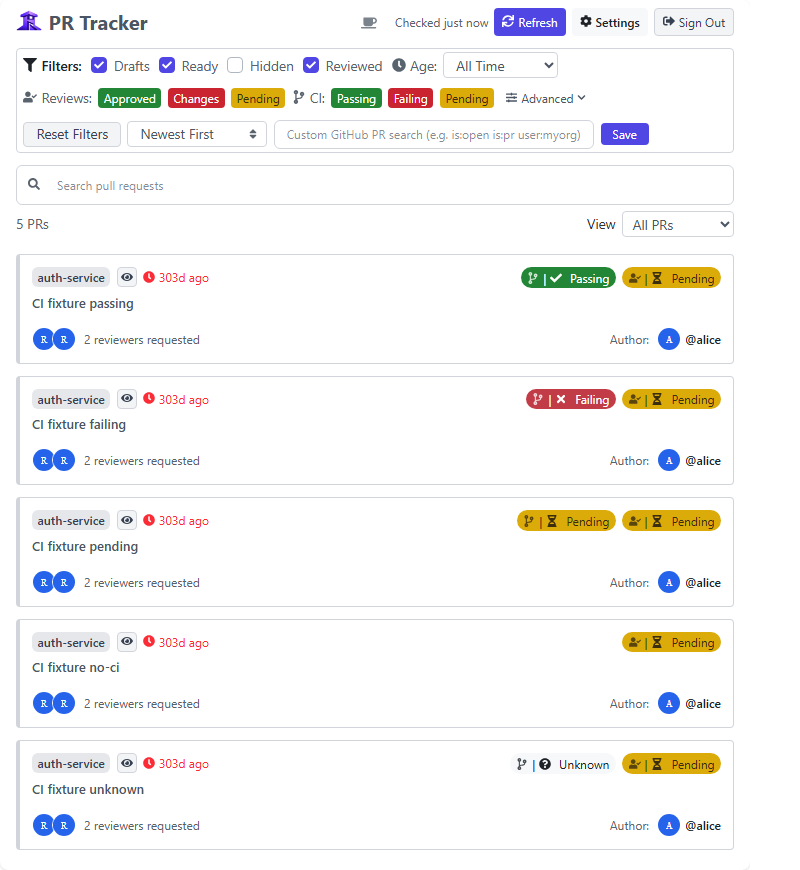
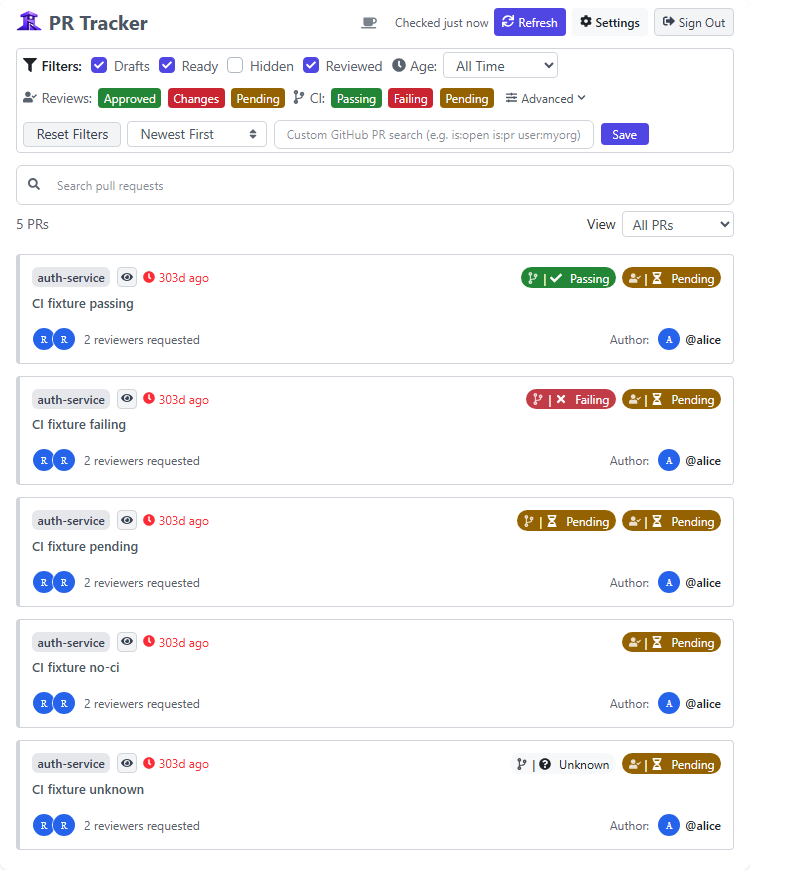
fix: use white Pending labels on darker amber

diff --git a/tests/e2e/popup-states.e2e.test.ts b/tests/e2e/popup-states.e2e.test.ts
@@ -285,13 +285,9 @@ describe('popup state journeys', () => {
                     for (const badge of card.badgePresentation) {
                         expect(badge.size).toBe('12px');
                         expect(badge.lineHeight).toBe('16px');
-                        expect(badge.foreground).toBe(
-                            badge.pending
-                                ? 'rgb(59, 46, 14)'
-                                : 'rgb(255, 255, 255)'
-                        );
+                        expect(badge.foreground).toBe('rgb(255, 255, 255)');
                         if (badge.pending) {
-                            expect(badge.background).toBe('rgb(219, 171, 9)');
+                            expect(badge.background).toBe('rgb(148, 98, 0)');
                         }
                         expect(badge.textColours).toEqual([
                             badge.foreground,
@@ -369,7 +365,7 @@ describe('popup state journeys', () => {
                 primary: ['rgb(80, 70, 228)', 'rgb(255, 255, 255)'],
                 secondary: ['rgb(243, 244, 246)', 'rgb(55, 65, 81)'],
                 ci: ['rgb(35, 134, 54)', 'rgb(255, 255, 255)'],
-                review: ['rgb(219, 171, 9)', 'rgb(59, 46, 14)'],
+                review: ['rgb(148, 98, 0)', 'rgb(255, 255, 255)'],
             },
         ],
         [
@@ -383,7 +379,7 @@ describe('popup state journeys', () => {
                 primary: ['rgb(35, 134, 54)', 'rgb(255, 255, 255)'],
                 secondary: ['rgb(33, 38, 45)', 'rgb(230, 237, 243)'],
                 ci: ['rgb(35, 134, 54)', 'rgb(255, 255, 255)'],
-                review: ['rgb(219, 171, 9)', 'rgb(59, 46, 14)'],
+                review: ['rgb(148, 98, 0)', 'rgb(255, 255, 255)'],
             },
         ],
     ] as const)(

diff --git a/tests/helpers/statusContrast.ts b/tests/helpers/statusContrast.ts
@@ -72,6 +72,14 @@ export function measureStatusContrast(doc: Document = document) {
                 (element.textContent?.trim() || 'checkmark'),
             selected: element.getAttribute('data-selected'),
             foreground: style.color,
+            contentColours: Array.from(
+                element.querySelectorAll('span, svg')
+            ).flatMap((child) => {
+                const computed = view.getComputedStyle(child);
+                return child.matches('svg')
+                    ? [computed.color, computed.fill]
+                    : [computed.color];
+            }),
             background: style.backgroundColor,
             contrast: contrast(blend(rgb(style.color), bg), bg),
             icons,
@@ -104,6 +112,17 @@ export function assertStatusContrast(
     if (audit.rows.length < 20)
         throw new Error(`Incomplete status fixture: ${audit.rows.length} rows`);
     for (const row of audit.rows) {
+        if (row.state === 'pending' && row.selected !== 'false') {
+            if (
+                row.background !== 'rgb(148, 98, 0)' ||
+                [row.foreground, ...row.contentColours].some(
+                    (colour) => colour !== 'rgb(255, 255, 255)'
+                )
+            )
+                throw new Error(
+                    `Pending must use white text, icons and separators on the shared amber: ${JSON.stringify(row)}`
+                );
+        }
         if (row.contrast < 4.5)
             throw new Error(
                 `${row.context} ${row.state}: ${row.foreground} on ${row.background} = ${row.contrast}`

diff --git a/src/styles/tokens.css b/src/styles/tokens.css
@@ -68,8 +68,8 @@
     --popup-draft-foreground: #374151;
     --popup-status-passing: #238636;
     --popup-status-failing: #cb2431;
-    --popup-status-pending: #dbab09;
-    --popup-status-pending-foreground: #3b2e0e;
+    --popup-status-pending: #946200;
+    --popup-status-pending-foreground: #ffffff;
     --popup-status-foreground: #ffffff;
     --popup-card-status-passing: #238636;
     --popup-card-status-failing: #c13c47;
@@ -144,7 +144,7 @@
     --popup-draft-foreground: #d1d5db;
     --popup-status-passing: #238636;
     --popup-status-failing: #cb2431;
-    --popup-status-pending: #dbab09;
+    --popup-status-pending: #946200;
     --popup-status-foreground: #ffffff;
     --popup-notification-enabled: #22c55e;
     --popup-error-background: #7f1d1d;

diff --git a/tests/unit/status-contrast.unit.test.ts b/tests/unit/status-contrast.unit.test.ts
@@ -80,6 +80,13 @@ describe.each(['light', 'dark'] as const)('%s status colours', (theme) => {
             ).toBeGreaterThanOrEqual(4.5);
         }
     );
+    it('uses the same white-on-amber Pending pair for cards and active filters', () => {
+        expect(resolve('--popup-status-pending')).toBe('#946200');
+        expect(resolve('--popup-card-status-pending')).toBe(
+            resolve('--popup-status-pending')
+        );
+        expect(resolve('--popup-status-pending-foreground')).toBe('#ffffff');
+    });
     it('keeps the focus outline visible against the filter surface', () => {
         expect(
             contrast(resolve('--ring'), resolve('--popup-surface'))

diff --git a/tests/e2e/ci-status.e2e.test.ts b/tests/e2e/ci-status.e2e.test.ts
@@ -195,7 +195,7 @@ describe('five CI states', () => {
             ).toEqual([
                 { status: 'passing', background: 'rgb(35, 134, 54)' },
                 { status: 'failing', background: 'rgb(203, 36, 49)' },
-                { status: 'pending', background: 'rgb(219, 171, 9)' },
+                { status: 'pending', background: 'rgb(148, 98, 0)' },
             ]);
             const before = await page.$eval(
                 '.filter-bar-container',

diff --git a/docs/investigations/status-filter-contrast.md b/docs/investigations/status-filter-contrast.md
@@ -3,11 +3,12 @@
 Follow-up to the [PR #112 investigation](grouping-performance-usability.md#accessibility).
 Checked on 13 November 2026 against `main` at `4643cd6` and this fix.
 
-Pending keeps its existing yellow `#dbab09` background, with dark `#3b2e0e`
-text instead of white. Active Passing and Approved filters use the existing
-card green `#238636`. Their text is white in both themes, as is active red
-filter text. Card green/red, draft and neutral palettes are unchanged. Status
-names, icons, sizes, layout and filter behaviour are unchanged.
+Pending uses a darker amber `#946200` background with white `#ffffff` text,
+icons and separators in cards and active filters. The suggested amber measures
+5.2418:1 against white, so no alternative shade was needed. Active Passing and Approved
+filters use the existing card green `#238636`. Their text is white in both themes,
+as is active red filter text. Card green/red, draft and neutral palettes are
+unchanged. Status names, icons, sizes, layout and filter behaviour are unchanged.
 
 The hidden review/CI filter checkboxes now give their adjacent visible badges
 a two-pixel focus outline using the existing ring token. This makes the focused
@@ -24,8 +25,8 @@ Both browsers returned the same values in each theme.
 
 | Text                         | Before light/dark | After light/dark |
 | ---------------------------- | ----------------: | ---------------: |
-| Pending card badge           |       2.13 / 2.13 |      6.22 / 6.22 |
-| Active Pending filter        |       2.13 / 1.81 |      6.22 / 6.22 |
+| Pending card badge           |       2.13 / 2.13 |      5.24 / 5.24 |
+| Active Pending filter        |       2.13 / 1.81 |      5.24 / 5.24 |
 | Active Passing/Approved      |       3.13 / 2.65 |      4.63 / 4.63 |
 | Active Failing/Changes       |       5.47 / 4.63 |      5.47 / 5.47 |
 | Passing/Approved card        |       4.63 / 4.63 |      4.63 / 4.63 |
@@ -81,8 +82,10 @@ age indicators and search placeholders, is outside this colour change.
 
 ## Verification
 
-Node 24 compilation, Oxlint, 810 unit tests, 29 relevant headed Chrome E2E tests,
-all 75 headless Chrome E2E tests and six Firefox runtime tests passed. The Firefox
-run includes grouping persistence, Advanced CI and detail-cache regressions.
+Node 24 compilation, Oxlint, 812 unit tests, 29 relevant headed Chrome E2E tests
+and six Firefox runtime tests passed. Eleven focused headless Chrome checks also
+passed. The Firefox run includes grouping persistence, Advanced CI and
+detail-cache regressions.
 Both production builds, changed-file Prettier and `git diff --check` passed.
-GitHub CI results are recorded on the pull request.
+Required GitHub CI also runs the complete headless Chrome suite; its results are
+recorded on the pull request.
